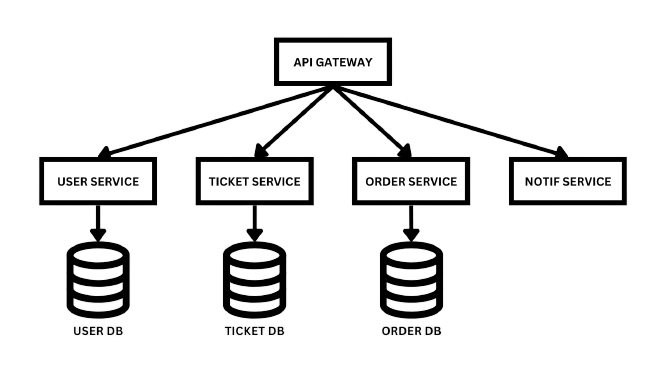
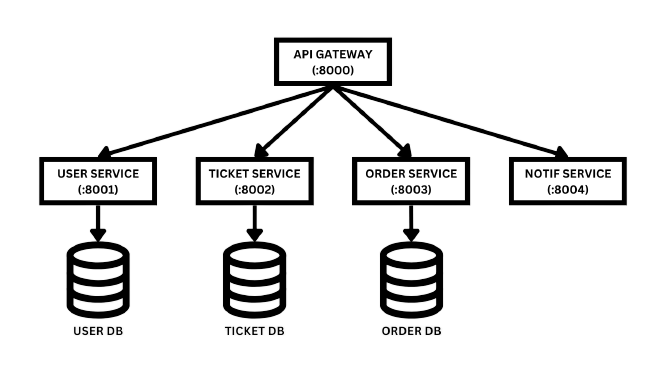
update readme

diff --git a/README.md b/README.md
@@ -1,0 +1,228 @@
+# Documentation
+
+WTS - Secondhand ticket platform
+Tech stack: Golang (Gin, Gorm), PostgresSQL, RabbitMQ
+
+## Architecture
+
+![Microservices Architecture](/microservices.png)
+
+## API Specification
+
+**1. USER SERVICE**
+1.1 Register User
+Type: POST
+URL: http://localhost:8000/user/register
+
+Payload:
+
+```
+{
+    "email": "youremail@gmail.com",
+    "whatsapp": "085123456789",
+    "password": "yourpassword"
+}
+```
+
+Return:
+
+```
+{
+    "data": {
+        "id": "user-xxxxxxxxxxxxxxxx"
+    },
+    "message": "success"
+}
+```
+
+2.2 Login User
+Type: POST
+URL: http://localhost:8000/user/login
+
+Payload:
+
+```
+{
+    "email": "youremail@gmail.com",
+    "password": "yourpassword"
+}
+```
+
+Return:
+
+```
+{
+    "data": {
+        "token": "xxxxxxxxxxxxxxxx"
+    },
+    "message": "success"
+}
+```
+
+**2. TICKET SERVICE**
+2.1 Insert Ticket
+Type: POST
+Url: http://localhost:8000/ticket
+Authorization: "Bearer "+token
+
+Payload:
+
+```
+{
+    "event": "event name",
+    "qty": 1
+}
+```
+
+Return:
+
+```
+{
+    "data": {
+        "id": "xxxxxxxxxxxxxxxx"
+    },
+    "message": "success"
+}
+```
+
+2.2 Get Ticket Data
+Type: GET
+Url: http://localhost:8000/ticket/{id}
+
+Return:
+
+```
+{
+    "data": {
+        "id": "ticket-xxxxxxxxxxxxxxxx",
+        "owner": {
+            "id": "user-xxxxxxxxxxxxxxxx",
+            "email": "youremail@gmail.com",
+            "whatsapp": "085123456789",
+            "registered_on": "2023-01-01T00:00:00.000000+07:00",
+            "updated_on": "2023-01-01T00:00:00.000000+07:00"
+        },
+        "event": "event name",
+        "qty": 1,
+        "status": "sold",
+        "registered_on": "2023-01-01T00:00:00.000000Z",
+        "updated_on": "2023-01-01T00:00:00.000000Z"
+    },
+    "message": "success"
+}
+```
+
+2.3 Update Ticket Data
+Type: PUT
+Url: http://localhost:8000/ticket/{id}
+Authorization: "Bearer "+token
+
+Payload:
+
+```
+{
+    "event": "event name",
+    "qty": 1
+}
+```
+
+Return:
+
+```
+{
+    "message": "success"
+}
+```
+
+2.4 Update Ticket Status
+Type: PUT
+Url: http://localhost:8000/ticket/{id}/{status}
+Authorization: "Bearer "+token
+
+Return:
+
+```
+{
+    "message": "success"
+}
+```
+
+**3. ORDER SERVICE**
+3.1 Insert Order
+Type: POST
+Url: http://localhost:8000/order
+Authorization: "Bearer "+token
+
+Payload:
+
+```
+{
+    "ticket_id": "ticket-xxxxxxxxxxxxxxxx",
+    "qty": 1
+}
+```
+
+Return:
+
+```
+{
+    "data": {
+        "id": "xxxxxxxxxxxxxxxx"
+    },
+    "message": "success"
+}
+```
+
+2.2 Get Ticket Data
+Type: GET
+Url: http://localhost:8000/order/{id}
+
+Return:
+
+```
+{
+    "data": {
+        "id": "order-xxxxxxxxxxxxxxxx",
+        "buyer": {
+            "id": "user-xxxxxxxxxxxxxxxx",
+            "email": "youremail@gmail.com",
+            "whatsapp": "085123456789",
+            "registered_on": "2023-01-01T00:00:00.000000+07:00",
+            "updated_on": "2023-01-01T00:00:00.000000+07:00"
+        },
+        "ticket": {
+            "id": "ticket-xxxxxxxxxxxxxxxx",
+            "owner": {
+                "id": "user-xxxxxxxxxxxxxxxx",
+                "email": "youremail@gmail.com",
+                "whatsapp": "085123456789",
+                "registered_on": "2023-01-01T00:00:00.000000+07:00",
+                "updated_on": "2023-01-01T00:00:00.000000+07:00"
+            },
+            "event": "event name",
+            "qty": 1,
+            "status": "sold",
+            "registered_on": "2023-01-01T00:00:00.000000Z",
+            "updated_on": "2023-01-01T00:00:00.000000Z"
+        },
+        "qty": 1,
+        "status": "canceled",
+        "registered_on": "2023-01-01T00:00:00.000000Z",
+        "updated_on": "2023-01-01T00:00:00.000000Z"
+    },
+    "message": "success"
+}
+```
+
+2.3 Update Order Status
+Type: PUT
+Url: http://localhost:8000/ticket/{id}/{status}
+Authorization: "Bearer "+token
+
+Return:
+
+```
+{
+    "message": "success"
+}
+```
